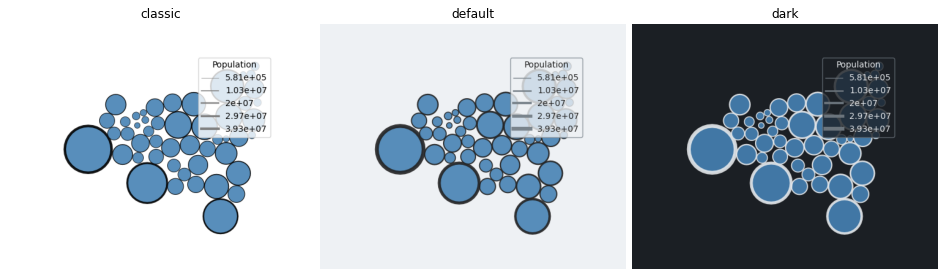
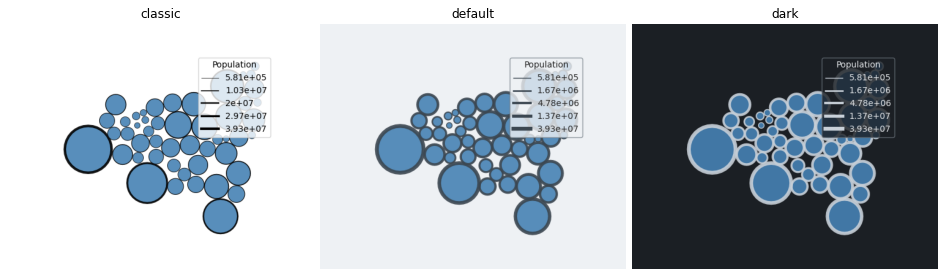
Update overlay colors page

diff --git a/index.html b/index.html
@@ -77,7 +77,7 @@
 <table id="toc">
 <thead><tr><th data-col="0" title="Sort by Status">Status</th><th data-col="1" title="Sort by Kind">Kind</th><th data-col="2" title="Sort by Topic">Topic</th><th data-col="3" title="Sort by PR">PR</th><th data-col="4" title="Sort by Title">Title</th><th data-col="5" title="Sort by Description">Description</th><th data-col="6" title="Sort by Created">Created</th><th data-col="7" title="Sort by Closed">Closed</th><th data-col="8" title="Sort by Figures">Figures</th></tr></thead>
 <tbody>
-<tr class="todo" data-ord="0" data-kind="pr" data-topics=" voronoi symbol infra " data-status="needs review" data-class="todo" data-active="2026-10-16 20:00"><td><span class="status todo">needs review</span></td><td>pr</td><td>voronoi, symbol, infra</td><td><a href="https://github.com/bright-fakl/carto-flow/pull/146">#146</a></td><td><a href="plot-style-overlays/index.html">Overlay colors of the diagnostic plots in PlotStyle</a></td><td>PlotStyle gets series_color, accent_color, positive_color and highlight_color for the fixed colors of the diagnostic overlays of the Voronoi and symbol plots. Default and dark set them; classic keeps the former colors.</td><td>2026-10-16 20:00</td><td></td><td>7</td></tr>
+<tr class="todo" data-ord="0" data-kind="pr" data-topics=" voronoi symbol infra " data-status="needs review" data-class="todo" data-active="2026-10-16 20:00"><td><span class="status todo">needs review</span></td><td>pr</td><td>voronoi, symbol, infra</td><td><a href="https://github.com/bright-fakl/carto-flow/pull/146">#146</a></td><td><a href="plot-style-overlays/index.html">Overlay colors of the diagnostic plots in PlotStyle</a></td><td>PlotStyle gets series_color, accent_color, positive_color and highlight_color for the fixed colors of the diagnostic overlays of the Voronoi and symbol plots. Default and dark set them; classic keeps the former colors.</td><td>2026-10-16 20:00</td><td></td><td>9</td></tr>
 <tr data-ord="1" data-kind="pr" data-topics=" symbol infra " data-status="merged" data-class="done" data-active="2026-10-16 18:00"><td><span class="status done">merged</span></td><td>pr</td><td>symbol, infra</td><td><a href="https://github.com/bright-fakl/carto-flow/pull/145">#145</a></td><td><a href="plot-style-symbol/index.html">PlotStyle for the symbol plots</a></td><td>Part B2 of the style system. SymbolCartogram.plot and the symbol plot functions take style=, with the surface, the palettes by data role, the channels (fill, alpha, edge, linewidth, label), hatch cycle, reference layer and colorbar of the style. plot_symbols takes center= and categorical=. The default look of these plots changes; style=&quot;classic&quot; gives the earlier look.</td><td>2026-10-16 18:00</td><td>2026-10-15 22:37</td><td>9</td></tr>
 <tr data-ord="2" data-kind="pr" data-topics=" voronoi proportional infra " data-status="merged" data-class="done" data-active="2026-10-16 15:00"><td><span class="status done">merged</span></td><td>pr</td><td>voronoi, proportional, infra</td><td><a href="https://github.com/bright-fakl/carto-flow/pull/144">#144</a></td><td><a href="plot-style-voronoi-proportional/index.html">PlotStyle for the Voronoi and proportional plots</a></td><td>Part B1 of the style system. The Voronoi plots and animation and plot_partitions and plot_dot_density take style=, with the surface, the palettes by data role, the boundary and the colorbar of the style, and norm= (Voronoi also center= and categorical=). New PlotStyle fields reference_* and annotation_size. The fill drawing of the flow plots moves to a shared module. Fixes the black complement of plot_partitions for continuous values. The default look of these plots changes; style=&quot;classic&quot; gives the earlier look.</td><td>2026-10-16 15:00</td><td>2026-10-15 21:51</td><td>8</td></tr>
 <tr data-ord="3" data-kind="pr" data-topics=" flow infra " data-status="merged" data-class="done" data-active="2026-10-16 09:00"><td><span class="status done">merged</span></td><td>pr</td><td>flow, infra</td><td><a href="https://github.com/bright-fakl/carto-flow/pull/143">#143</a></td><td><a href="plot-style-core/index.html">PlotStyle sets the look of the flow plots and animations</a></td><td>PR A of the style system. A frozen PlotStyle (matplotlib rc dict, palettes by data role, channels, color scale, colorbar fields) with the built-in styles default (the new look), dark and classic (the look before styles), a registry, style=, style_context and set_style. The flow plots and animations take style=, norm=, center= and categorical=, the data role is decided by the data, and a log colorbar has real-number ticks. morph_timeline builds the keyframes of a hold, eased morph, hold and return. The default look of every flow plot changes; style=&quot;classic&quot; gives the earlier look.</td><td>2026-10-16 09:00</td><td>2026-10-15 19:36</td><td>7</td></tr>

diff --git a/plot-style-overlays/index.html b/plot-style-overlays/index.html
@@ -84,7 +84,7 @@
 <dt>Base</dt><dd>main</dd>
 <dt>Created</dt><dd>2026-10-16 20:00</dd>
 <dt>Before</dt><dd>main @ 3055caa</dd>
-<dt>After</dt><dd>feat/plot-style-overlays @ fb4d694</dd>
+<dt>After</dt><dd>feat/plot-style-overlays @ 6b1c55b</dd>
 <dt>Inputs</dt><dd>bundled US states; a population-weighted Voronoi cartogram (RasterBackend 256, 100 iterations); a circle-packing symbol cartogram.</dd>
 </dl>
 <p class="desc">PlotStyle gets series_color, accent_color, positive_color and highlight_color for the fixed colors of the diagnostic overlays of the Voronoi and symbol plots. Default and dark set them; classic keeps the former colors.</p>
@@ -96,12 +96,12 @@
 <tr><th></th><th></th></tr>
 <tr><td>style fields</td><td><code>series_color</code>, <code>accent_color</code>, <code>positive_color</code>, <code>highlight_color</code>, <code>PlotStyle.pick(name, default)</code></td></tr>
 <tr><td>Voronoi</td><td>convergence, displacement, topology, repair plots and the history animation</td></tr>
-<tr><td>symbol</td><td>the key of the line-width legend, displacement arrows, adjacency nodes, pool tiles of <code>plot_tiling</code> (<code>core_edgecolor</code>, <code>ring_edgecolor</code> default to the style)</td></tr>
+<tr><td>symbol</td><td><code>&quot;stroke&quot;</code> channel for data-driven edges (width, hatch), <code>alpha_norm</code>/<code>linewidth_norm</code>/<code>label_fontsize_norm</code> and <code>Channel(scale=...)</code>, the key of the line-width legend, displacement arrows, adjacency nodes, pool tiles of <code>plot_tiling</code> (<code>core_edgecolor</code>, <code>ring_edgecolor</code> default to the style)</td></tr>
 <tr><td>flow</td><td><code>VelocityPlotOptions.color</code> defaults to None (the accent color of the style; black on the bare axes and white over a density image in classic); the reference lines of the workflow convergence plot use the axes edge color</td></tr>
 <tr><td>not yet</td><td>the fixed colors of the density and field image overlays beyond these</td></tr>
 </table>
 <h2>Checks</h2>
-<p>Suite 1257 passed, ruff and mypy clean. The topology repair overlays were not exercised by the comparison (the test case has no violations); the replaced literals were checked by reading the diff.</p>
+<p>Suite 1274 passed, ruff and mypy clean. The topology repair overlays were not exercised by the comparison (the test case has no violations); the replaced literals were checked by reading the diff.</p>
 <div class="figure">
 <img src="fig_adjacency_nodes.png" alt="Nodes use the text color of the style.">
 <p class="caption">Nodes use the text color of the style.</p>
@@ -109,8 +109,8 @@
 <img src="fig_convergence.png" alt="Convergence curve (series color) and final value (accent color).">
 <p class="caption">Convergence curve (series color) and final value (accent color).</p>
 </div><div class="figure">
-<img src="fig_linewidth_legend.png" alt="Line width by population without an edge color: the edge is the text color of the style, widths 1 to 4.5 points in default and dark.">
-<p class="caption">Line width by population without an edge color: the edge is the text color of the style, widths 1 to 4.5 points in default and dark.</p>
+<img src="fig_linewidth_legend.png" alt="Line width by population without an edge color: the edge is the stroke color of the style, the widths follow the `&quot;auto&quot;` scale of the style (log here), and the legend keys are spaced in the scaled units.">
+<p class="caption">Line width by population without an edge color: the edge is the stroke color of the style, the widths follow the <code>&quot;auto&quot;</code> scale of the style (log here), and the legend keys are spaced in the scaled units.</p>
 </div><div class="figure">
 <img src="fig_symbol_displacement.png" alt="Displacement arrows use the accent color (yellow in dark, for contrast with the blue circles).">
 <p class="caption">Displacement arrows use the accent color (yellow in dark, for contrast with the blue circles).</p>
@@ -123,6 +123,12 @@
 </div><div class="figure">
 <img src="fig_voronoi_displacement.png" alt="Base cells use the reference fill and the axes edge color; targets use the accent color, centroids the series color.">
 <p class="caption">Base cells use the reference fill and the axes edge color; targets use the accent color, centroids the series color.</p>
+</div><div class="figure">
+<img src="fig_width_scales_dark.png" alt="The same in the dark style.">
+<p class="caption">The same in the dark style.</p>
+</div><div class="figure">
+<img src="fig_width_scales_default.png" alt="`linewidth_norm` linear, sqrt, log and rank on the same data (default style).">
+<p class="caption"><code>linewidth_norm</code> linear, sqrt, log and rank on the same data (default style).</p>
 </div>
 <a class="back" href="../index.html">&larr; back to index</a>
 

diff --git a/plot-style-overlays/make_figures.py b/plot-style-overlays/make_figures.py
@@ -69,3 +69,16 @@ flow_result = flow.create_flow_cartogram(
 )
 row("fig_velocity.png", lambda s: plot_velocity_field(flow_result, style=s).ax.figure)
 row("fig_linewidth_legend.png", lambda s: circles.plot(linewidth="Population", style=s).ax.figure)
+
+def scales(style):
+    fig, axes = plt.subplots(1, 4, figsize=(20, 4))
+    for ax, scale in zip(axes, ("linear", "sqrt", "log", "rank")):
+        circles.plot(ax=ax, linewidth="Population", linewidth_norm=scale, linewidth_legend=False, style=style)
+        ax.set_title(scale)
+    return fig
+
+
+for style in ("default", "dark"):
+    fig = scales(style)
+    fig.savefig(HERE / f"fig_width_scales_{style}.png", dpi=DPI, bbox_inches="tight")
+    plt.close(fig)

diff --git a/plot-style-overlays/summary.md b/plot-style-overlays/summary.md
@@ -11,7 +11,7 @@ base: main
 date: 2026-10-16 20:00
 related: plot-style-symbol, plot-style-voronoi-proportional, style-system
 before: main @ 3055caa
-after: feat/plot-style-overlays @ fb4d694
+after: feat/plot-style-overlays @ 6b1c55b
 inputs: bundled US states; a population-weighted Voronoi cartogram (RasterBackend 256, 100 iterations); a circle-packing symbol cartogram.
 ---
 
@@ -29,7 +29,9 @@ figure: fig_symbol_displacement.png — Displacement arrows use the accent color
 figure: fig_adjacency_nodes.png — Nodes use the text color of the style.
 
 figure: fig_velocity.png — `plot_velocity_field`: the arrows take the accent color; classic draws them black (they were white on the white axes, invisible).
-figure: fig_linewidth_legend.png — Line width by population without an edge color: the edge is the text color of the style, widths 1 to 4.5 points in default and dark.
+figure: fig_linewidth_legend.png — Line width by population without an edge color: the edge is the stroke color of the style, the widths follow the `"auto"` scale of the style (log here), and the legend keys are spaced in the scaled units.
+figure: fig_width_scales_default.png — `linewidth_norm` linear, sqrt, log and rank on the same data (default style).
+figure: fig_width_scales_dark.png — The same in the dark style.
 
 ## What changes
 
@@ -37,10 +39,10 @@ figure: fig_linewidth_legend.png — Line width by population without an edge co
 |---|---|
 | style fields | `series_color`, `accent_color`, `positive_color`, `highlight_color`, `PlotStyle.pick(name, default)` |
 | Voronoi | convergence, displacement, topology, repair plots and the history animation |
-| symbol | the key of the line-width legend, displacement arrows, adjacency nodes, pool tiles of `plot_tiling` (`core_edgecolor`, `ring_edgecolor` default to the style) |
+| symbol | `"stroke"` channel for data-driven edges (width, hatch), `alpha_norm`/`linewidth_norm`/`label_fontsize_norm` and `Channel(scale=...)`, the key of the line-width legend, displacement arrows, adjacency nodes, pool tiles of `plot_tiling` (`core_edgecolor`, `ring_edgecolor` default to the style) |
 | flow | `VelocityPlotOptions.color` defaults to None (the accent color of the style; black on the bare axes and white over a density image in classic); the reference lines of the workflow convergence plot use the axes edge color |
 | not yet | the fixed colors of the density and field image overlays beyond these |
 
 ## Checks
 
-Suite 1257 passed, ruff and mypy clean. The topology repair overlays were not exercised by the comparison (the test case has no violations); the replaced literals were checked by reading the diff.
+Suite 1274 passed, ruff and mypy clean. The topology repair overlays were not exercised by the comparison (the test case has no violations); the replaced literals were checked by reading the diff.
